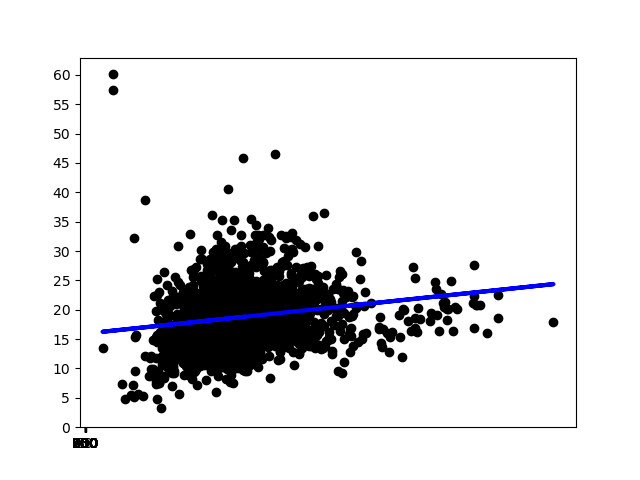
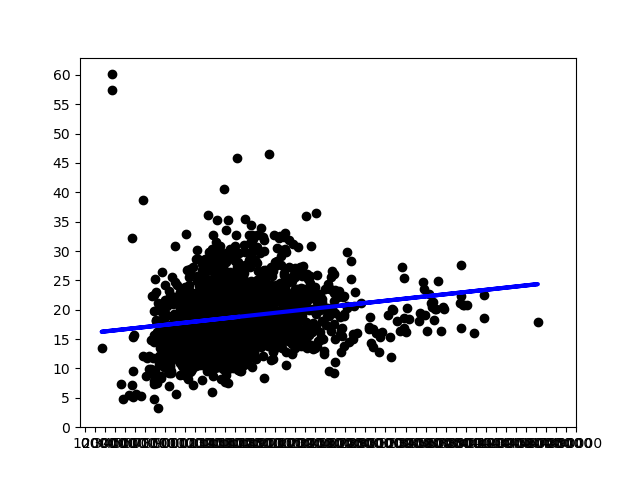
updated graphs

diff --git a/Processing/simple_regression.py b/Processing/simple_regression.py
@@ -58,7 +58,7 @@ print(f'PKE: {val1_score}\tPF: {val2_score}')
 plt.scatter(X1_test, y_test,color='black')
 plt.plot(X1_test, y1_pred, color='blue', linewidth=3)
 
-plt.xticks((np.arange(0, 1000, 50)))
+plt.xticks((np.arange(0, 500000, 10000)))
 plt.yticks((np.arange(0, 65, 5)))
 
 plt.savefig('pke_simplereg.png')
